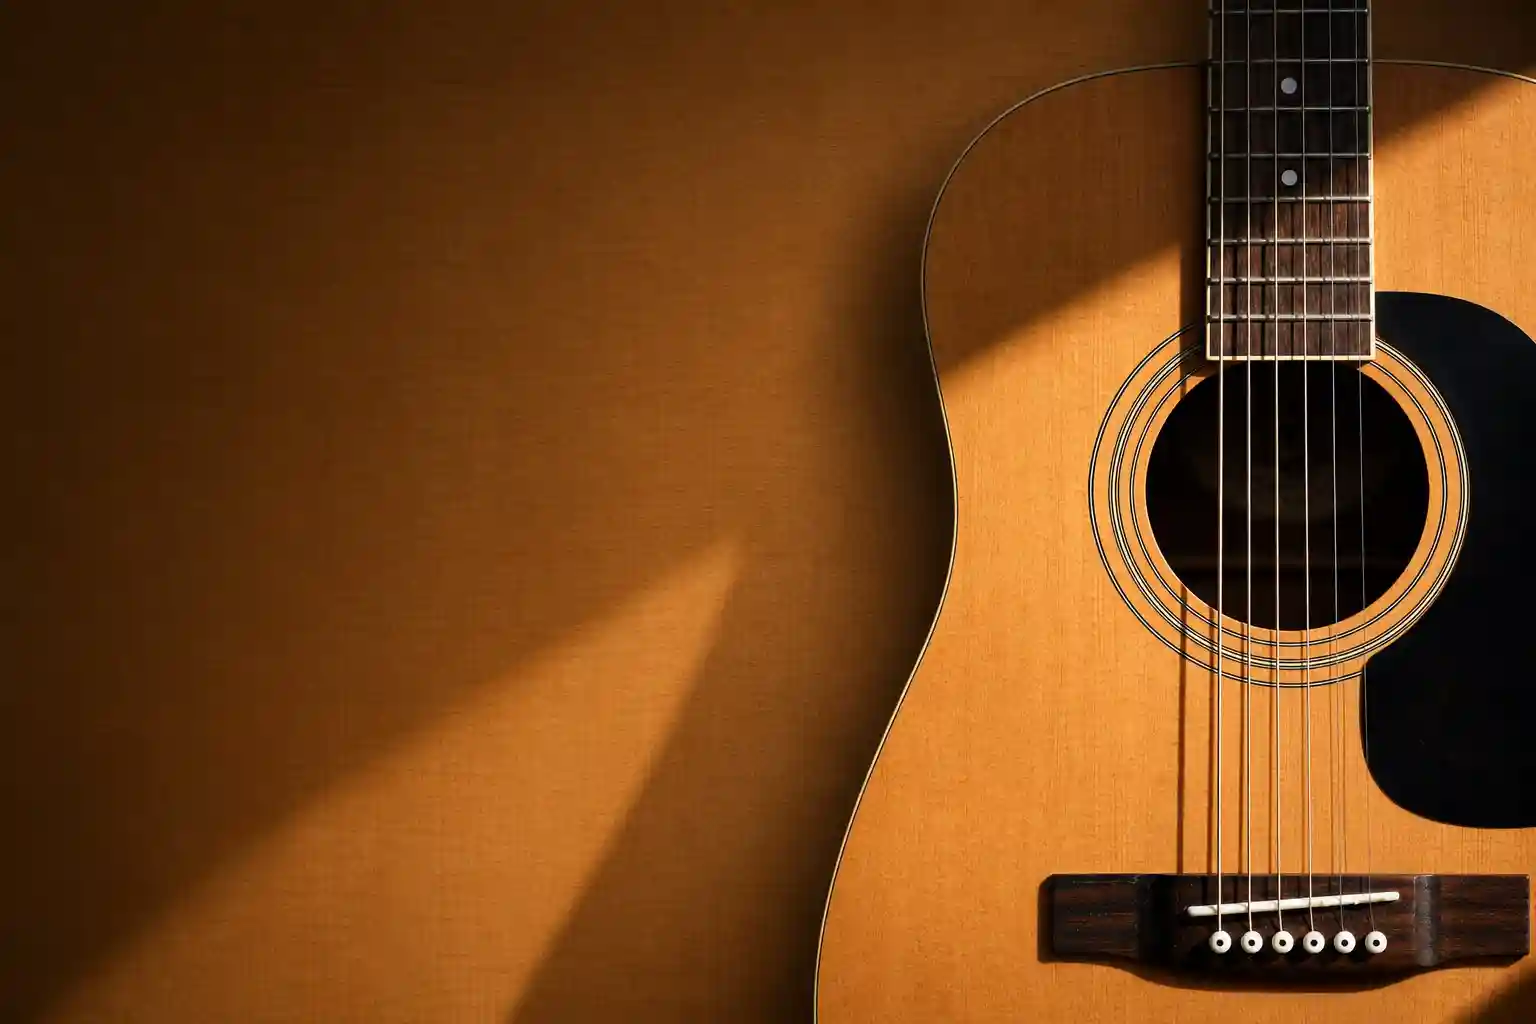
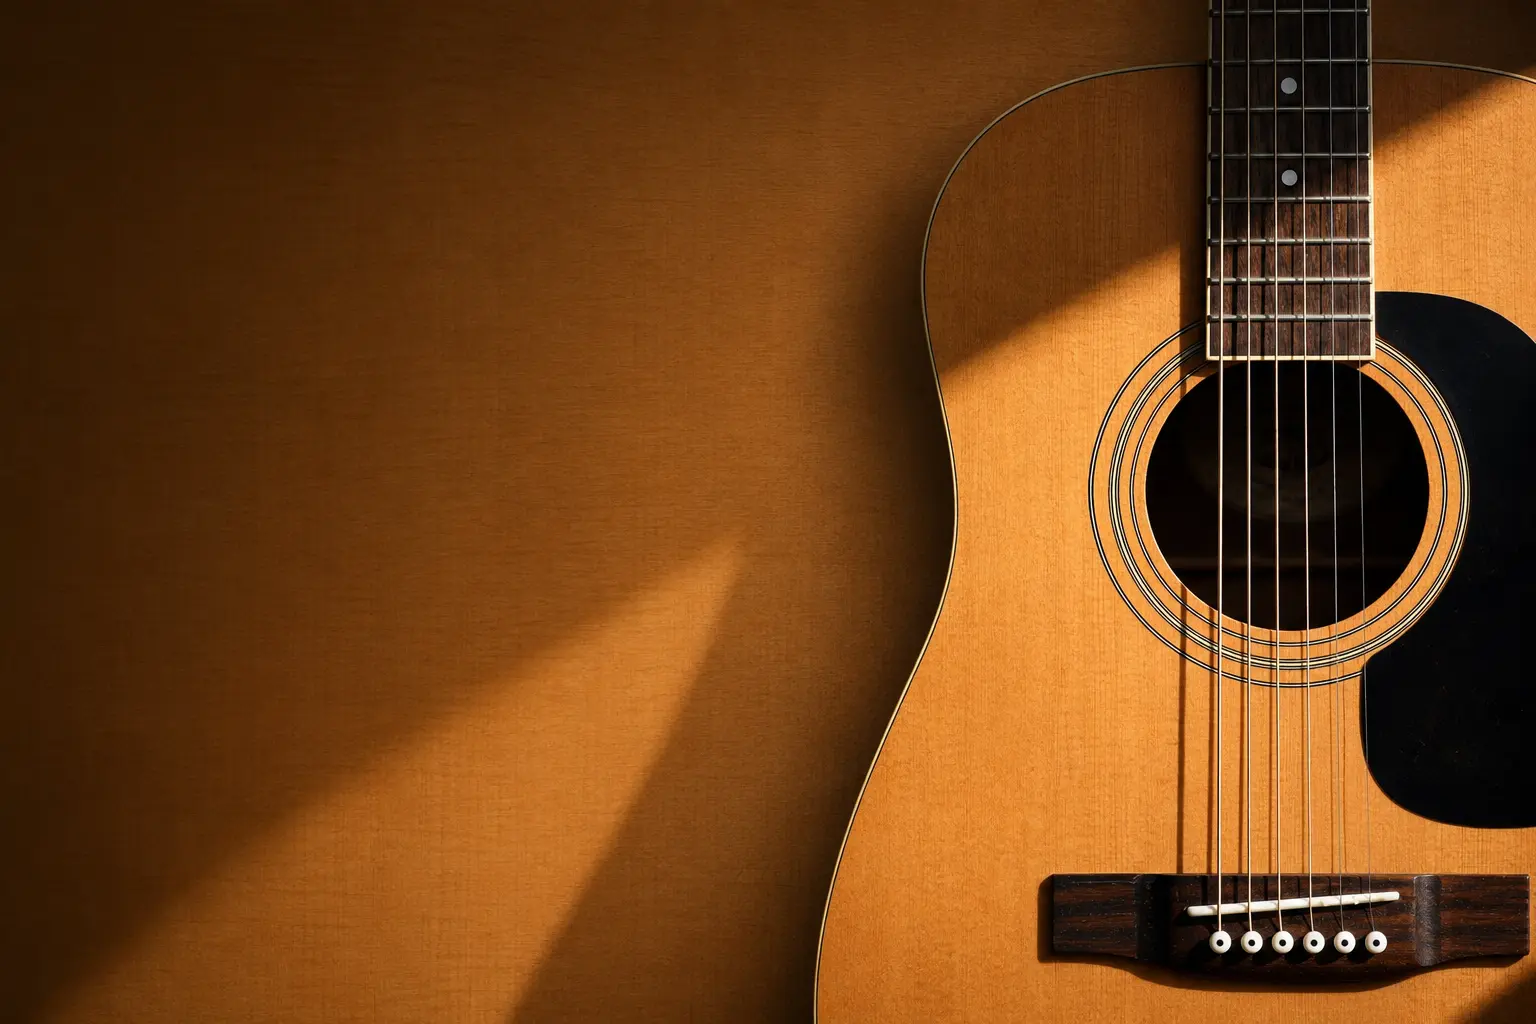
ui fixes

Changed region(s): [[0.7188, 0.5, 0.9688, 0.6562], [0.7188, 0.3438, 0.7812, 0.4688], [0.875, 0.3438, 0.9375, 0.4062]]

diff --git a/src/pages/Login/LoginPage.tsx b/src/pages/Login/LoginPage.tsx
@@ -51,7 +51,7 @@ export const LoginPage: React.FC = () => {
   };
 
   return (
-    <div className="min-h-screen w-full flex items-center justify-start p-4 sm:p-8 md:p-16 relative overflow-hidden font-sans transition-colors duration-500">
+    <div className="min-h-screen w-full flex items-center justify-center p-4 sm:p-8 md:p-16 relative overflow-hidden font-sans bg-slate-50 transition-colors duration-500">
       {/* Background Image */}
       <div className="absolute inset-0 z-0">
         <img 
@@ -64,11 +64,7 @@ export const LoginPage: React.FC = () => {
         <div className="absolute inset-0 bg-black/40" />
       </div>
 
-      {/* Background ambient lighting */}
-      <div className="absolute top-[-10%] left-[-10%] w-[50%] h-[50%] bg-m3-primary/10 rounded-full blur-[120px] pointer-events-none animate-pulse z-10" />
-      <div className="absolute bottom-[-10%] right-[-10%] w-[50%] h-[50%] bg-m3-primary-dark/10 rounded-full blur-[120px] pointer-events-none z-10" />
-
-      <div className="relative max-w-[380px] w-full bg-white border border-slate-200 rounded-[32px] shadow-2xl shadow-black/40 p-6 sm:p-8 transition-all duration-300 z-20">
+      <div className="relative max-w-95 w-full bg-white border border-slate-200 rounded-4xl shadow-2xl shadow-black/40 p-6 sm:p-8 transition-all duration-300 z-20">
         {/* Branding */}
 
         <div className="flex flex-col items-center text-center mb-6 select-none">

diff --git a/src/pages/Register/RegisterPage.tsx b/src/pages/Register/RegisterPage.tsx
@@ -59,7 +59,7 @@ export const RegisterPage: React.FC = () => {
   };
 
   return (
-    <div className="min-h-screen w-full flex items-center justify-start p-4 sm:p-8 md:p-16 relative overflow-hidden font-sans transition-colors duration-500">
+    <div className="min-h-screen w-full flex items-center justify-center p-4 sm:p-8 md:p-16 relative overflow-hidden font-sans bg-slate-50 transition-colors duration-500">
       {/* Background Image */}
       <div className="absolute inset-0 z-0">
         <img 
@@ -71,10 +71,6 @@ export const RegisterPage: React.FC = () => {
         {/* Subtle Overlay for contrast */}
         <div className="absolute inset-0 bg-black/40" />
       </div>
-
-      {/* Background ambient lighting */}
-      <div className="absolute top-[-10%] left-[-10%] w-[50%] h-[50%] bg-m3-primary/10 rounded-full blur-[120px] pointer-events-none animate-pulse z-10" />
-      <div className="absolute bottom-[-10%] right-[-10%] w-[50%] h-[50%] bg-m3-primary-dark/10 rounded-full blur-[120px] pointer-events-none z-10" />
 
       <div className="relative max-w-[380px] w-full bg-white border border-slate-200 rounded-[32px] shadow-2xl shadow-black/40 p-6 sm:p-8 transition-all duration-300 z-20">
         {/* Branding */}

diff --git a/src/pages/Register/Tenant.tsx b/src/pages/Register/Tenant.tsx
@@ -119,10 +119,6 @@ export const RegisterTenantPage: React.FC = () => {
         <div className="absolute inset-0 bg-slate-900/60 backdrop-blur-[2px]" />
       </div>
 
-      {/* Ambient lighting */}
-      <div className="absolute top-[-10%] left-[-10%] w-[50%] h-[50%] bg-m3-primary/20 rounded-full blur-[120px] pointer-events-none animate-pulse z-10" />
-      <div className="absolute bottom-[-10%] right-[-10%] w-[50%] h-[50%] bg-m3-primary-dark/20 rounded-full blur-[120px] pointer-events-none z-10" />
-
       {/* Main Card */}
       <div className="relative max-w-[440px] w-full bg-white/95 backdrop-blur-xl border border-white/20 rounded-[32px] shadow-2xl shadow-black/40 p-6 sm:p-10 transition-all duration-300 z-20 my-8">
         
